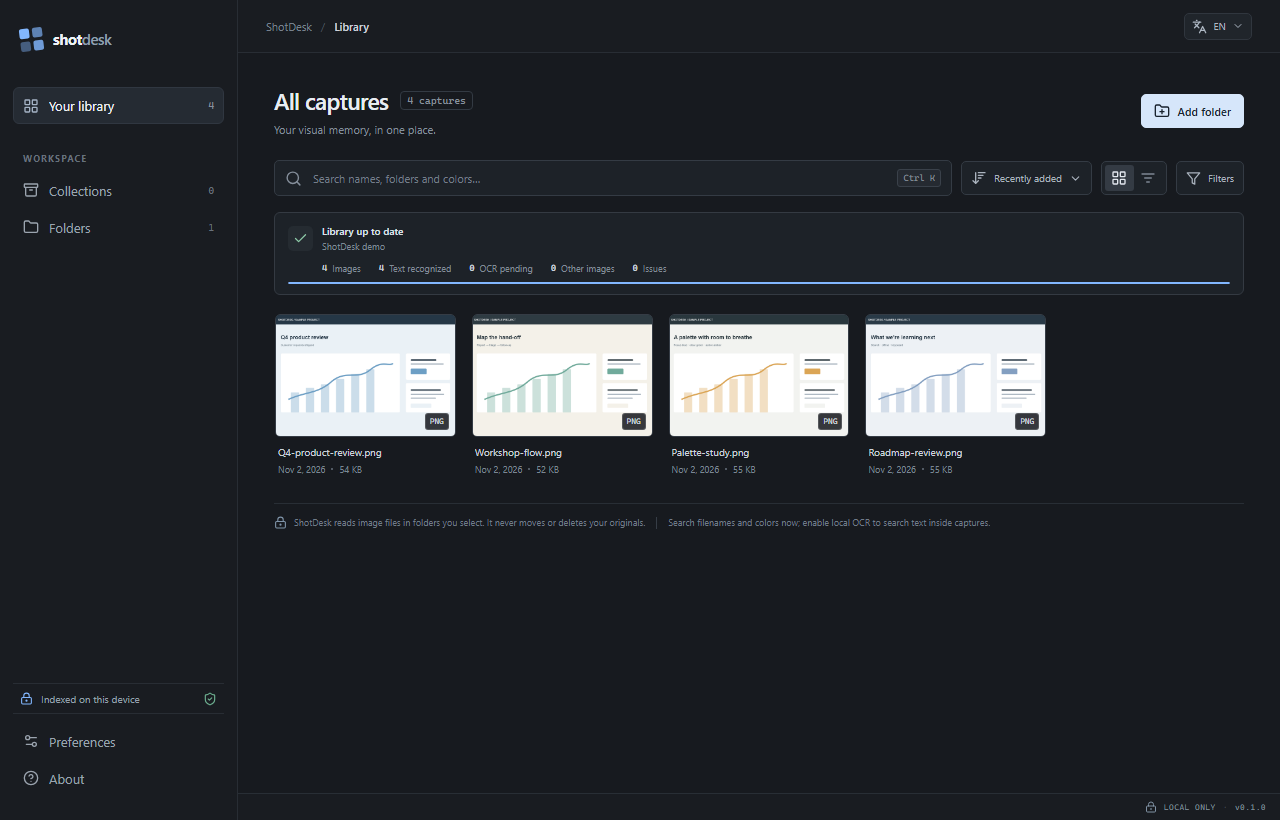
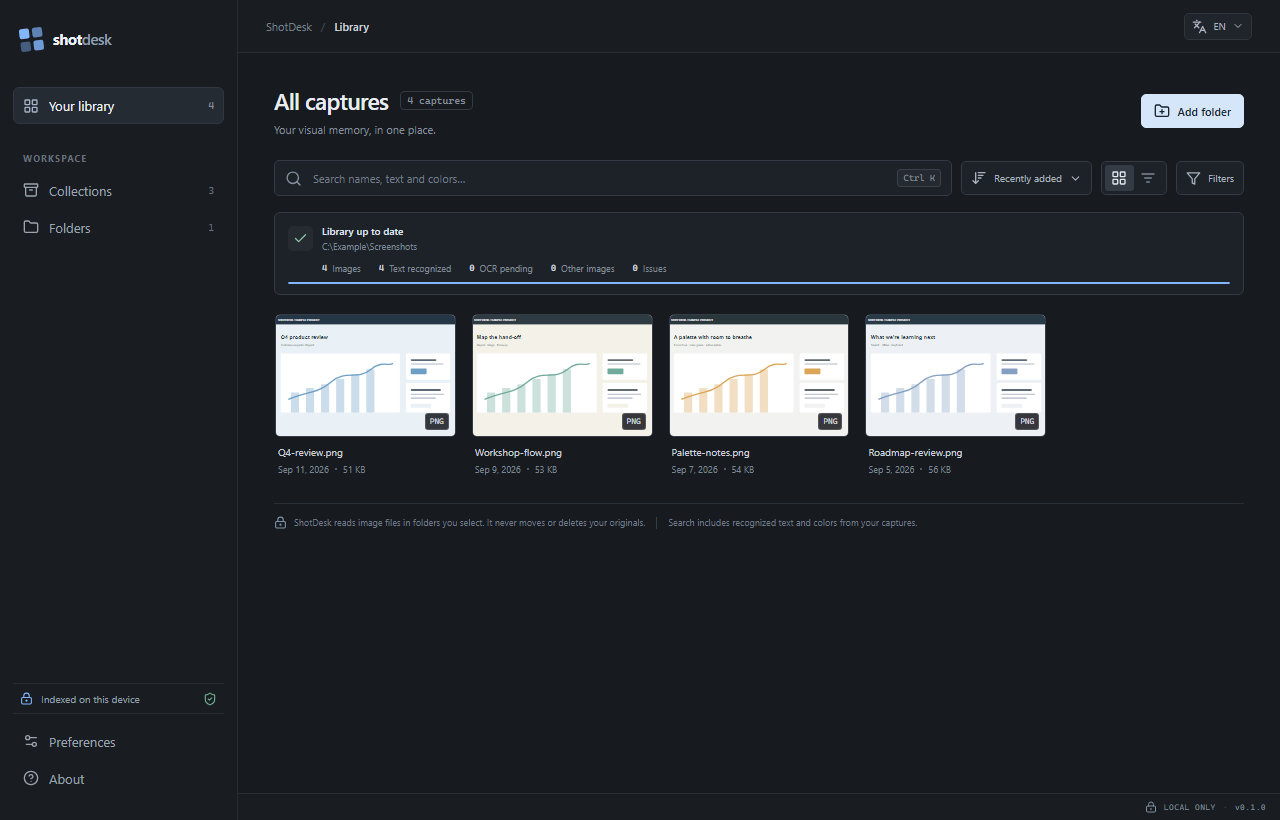
feat: add scroll-driven screen tour

diff --git a/translations.js b/translations.js
@@ -1,10 +1,11 @@
 export const translations = {
   "en-US": {
     homeTitle: "ShotDesk — Find it by what it shows", homeDescription: "ShotDesk is a Windows and Linux desktop app that helps you find screenshots by filename, recognized text, image details and colors. Local-first and private.", downloadDescription: "Download the ShotDesk preview for Windows or Linux. Get the current NSIS, MSI, Debian or RPM installer and read platform notes.", changelogDescription: "See what each ShotDesk version adds in plain language, with the option to open the original release details.",
-    skip: "Skip to content", workflowNav: "Workflow", privacyNav: "Local-first", detailsNav: "Image details", releaseNav: "Download", changelogNav: "Changelog", homeNav: "Overview", menuLabel: "Open navigation",
-    eyebrow: "LOCAL INDEX · TECHNICAL PREVIEW", headline: "Find the screenshot by what it shows.", intro: "ShotDesk reads your chosen screenshots on your device, then lets you search the words, image details, and colors you remember.", primaryCta: "Download preview", secondaryCta: "See the app", proofOne: "Chosen folders only", proofTwo: "SQLite FTS5", proofThree: "No image uploads",
+    skip: "Skip to content", workflowNav: "Workflow", screensNav: "App screens", privacyNav: "Local-first", detailsNav: "Image details", releaseNav: "Download", changelogNav: "Changelog", homeNav: "Overview", menuLabel: "Open navigation",
+    eyebrow: "LOCAL INDEX · TECHNICAL PREVIEW", headline: "Find the screenshot by what it shows.", intro: "ShotDesk reads your chosen screenshots on your device, then lets you search the words, image details, and colors you remember.", primaryCta: "Download preview", secondaryCta: "Explore the screens", proofOne: "Chosen folders only", proofTwo: "SQLite FTS5", proofThree: "No image uploads",
     pipelineTitle: "A screenshot, indexed locally", syntheticLabel: "Illustrative sample", localFile: "Original stays in its folder", stepOneTitle: "Image facts", stepOneBody: "1919 × 1031 · ratio · embedded EXIF", stepTwoTitle: "Color palette", stepTwoBody: "Blue · gray · white", stepThreeTitle: "Text recognition", stepThreeBody: "PP-OCRv6 · ONNX · on demand", resultLabel: "SEARCH RESULT", resultText: "“Q4 review” finds this capture", pipelineFoot: "After model setup, indexing works offline.",
     appShotEyebrow: "SHOTDESK · PREVIEW 0.1.0", appShotTitle: "Your screenshot library, at a glance.", appShotBody: "Browse a local index, search the details you remember, and open a capture without losing your place.", appShotAlt: "ShotDesk application interface showing the library and search field with four synthetic example screenshots.", appShotDisclosure: "Synthetic sample images",
+    screenStoryTitle: "Three moments in your screenshot library", screenStoryIntro: "Move from finding a screenshot to understanding it and keeping it organized.", screenStoryProgressLabel: "Screenshot tour progress", screenLibraryTitle: "Find the screenshot you remember.", screenLibraryBody: "Search by filename, folder, words inside the image, or its dominant colors.", screenDetailsTitle: "Understand each capture at a glance.", screenDetailsBody: "See recognized words, image dimensions, colors, and the collection it belongs to.", screenCollectionsTitle: "Keep project screenshots together.", screenCollectionsBody: "Create collections for projects, research, or anything you want to find again.", screenDisclosure: "Fictional screenshots and sample data", screenLibraryCaption: "ShotDesk 0.1.0 · sample library", screenDetailsCaption: "ShotDesk 0.1.0 · capture details", screenCollectionsCaption: "ShotDesk 0.1.0 · collections", screenLibraryAlt: "ShotDesk library showing four fictional screenshots, a search field, and local indexing status.", screenDetailsAlt: "ShotDesk capture details showing fictional image dimensions, colors, recognized text, and collection membership.", screenCollectionsAlt: "ShotDesk collections page showing three fictional project collections and their screenshot counts.",
     workflowEyebrow: "THE INDEXING PATH", workflowTitle: "A useful index, not another place to upload.", workflowIntro: "ShotDesk keeps a reference to each original file and builds a separate local index for the things you want to find.", workflowA: "Choose folders", workflowABody: "Only folders you select enter the library. Originals stay where they are.", workflowB: "Analyze images", workflowBBody: "Dimensions, available EXIF fields, and dominant colors are read locally. GPS is not stored.", workflowC: "Search what you recall", workflowCBody: "Find captures by filename, folder, OCR text, or color names in English and French.",
     detailsEyebrow: "WHAT THE LOCAL INDEX STORES", detailsTitle: "Useful facts, kept close to the image.", detailsNote: "EXIF fields are optional; many screenshots have none.", tableField: "Field", tableSource: "Source", tableUse: "Useful for", rowDimensions: "Dimensions & ratio", rowDimensionsUse: "Identifying screen size and orientation", rowExifUse: "Camera facts and resolution, when present", rowColors: "Dominant colors", rowColorsUse: "Searchable color names and palette chips", rowText: "Recognized text", rowTextUse: "Search text within the screenshot", rowSearch: "Search index", rowSearchUse: "Names, paths, text, and color aliases",
     privacyStamp: "LOCAL BY DESIGN", privacyEyebrow: "YOUR SCREENSHOTS STAY YOURS", privacyTitle: "No account. No upload. No moved originals.", privacyBody: "The SQLite library, thumbnails, collection membership, and OCR results are stored on this device. OCR models download only when you enable text search; after setup, recognition can run offline.", privacyOne: "Images are never sent to a cloud service.", privacyTwo: "GPS coordinates are not stored.", privacyThree: "Remove a folder from the index without deleting its files.",
@@ -15,10 +16,11 @@ export const translations = {
   },
   "fr-FR": {
     homeTitle: "ShotDesk — Retrouvez vos captures par leur contenu", homeDescription: "ShotDesk est une application de bureau Windows et Linux pour retrouver des captures par nom, texte reconnu, détails d’image et couleurs. Index local et privé.", downloadDescription: "Téléchargez la préversion ShotDesk pour Windows ou Linux : installateurs NSIS, MSI, Debian ou RPM, avec les notes de plateforme.", changelogDescription: "Découvrez simplement les nouveautés de ShotDesk et consultez les notes originales de chaque version si besoin.",
-    skip: "Aller au contenu", workflowNav: "Fonctionnement", privacyNav: "Traitement local", detailsNav: "Détails des images", releaseNav: "Télécharger", changelogNav: "Nouveautés", homeNav: "Accueil", menuLabel: "Ouvrir la navigation",
-    eyebrow: "INDEX LOCAL · APERÇU TECHNIQUE", headline: "Retrouvez une capture par ce qu’elle montre.", intro: "ShotDesk analyse les captures choisies sur votre appareil, puis permet de chercher les mots, détails et couleurs dont vous vous souvenez.", primaryCta: "Télécharger l’aperçu", secondaryCta: "Voir le logiciel", proofOne: "Dossiers choisis", proofTwo: "SQLite FTS5", proofThree: "Aucun envoi d’image",
+    skip: "Aller au contenu", workflowNav: "Fonctionnement", screensNav: "Écrans", privacyNav: "Traitement local", detailsNav: "Détails des images", releaseNav: "Télécharger", changelogNav: "Nouveautés", homeNav: "Accueil", menuLabel: "Ouvrir la navigation",
+    eyebrow: "INDEX LOCAL · APERÇU TECHNIQUE", headline: "Retrouvez une capture par ce qu’elle montre.", intro: "ShotDesk analyse les captures choisies sur votre appareil, puis permet de chercher les mots, détails et couleurs dont vous vous souvenez.", primaryCta: "Télécharger l’aperçu", secondaryCta: "Voir les écrans", proofOne: "Dossiers choisis", proofTwo: "SQLite FTS5", proofThree: "Aucun envoi d’image",
     pipelineTitle: "Une capture, indexée localement", syntheticLabel: "Exemple illustratif", localFile: "L’original reste dans son dossier", stepOneTitle: "Détails de l’image", stepOneBody: "1919 × 1031 · ratio · EXIF intégré", stepTwoTitle: "Palette de couleurs", stepTwoBody: "Bleu · gris · blanc", stepThreeTitle: "Reconnaissance de texte", stepThreeBody: "PP-OCRv6 · ONNX · à la demande", resultLabel: "RÉSULTAT DE RECHERCHE", resultText: "« revue Q4 » retrouve cette capture", pipelineFoot: "Après installation des modèles, l’indexation fonctionne hors ligne.",
     appShotEyebrow: "SHOTDESK · APERÇU 0.1.0", appShotTitle: "Votre bibliothèque de captures, en un coup d’œil.", appShotBody: "Parcourez votre index local, cherchez les détails dont vous vous souvenez et ouvrez une capture sans perdre votre place.", appShotAlt: "Interface de ShotDesk montrant la bibliothèque et son champ de recherche avec quatre captures d’exemple fictives.", appShotDisclosure: "Images de démonstration fictives",
+    screenStoryTitle: "Trois moments dans votre bibliothèque", screenStoryIntro: "De la recherche d’une capture à sa consultation et son organisation.", screenStoryProgressLabel: "Progression de la présentation des écrans", screenLibraryTitle: "Retrouvez la capture dont vous vous souvenez.", screenLibraryBody: "Recherchez par nom, dossier, mots visibles dans l’image ou couleurs dominantes.", screenDetailsTitle: "Comprenez chaque capture d’un coup d’œil.", screenDetailsBody: "Consultez le texte reconnu, les dimensions, les couleurs et la collection associée.", screenCollectionsTitle: "Réunissez les captures d’un projet.", screenCollectionsBody: "Créez des collections pour vos projets, vos recherches ou tout sujet à retrouver.", screenDisclosure: "Captures et données fictives de démonstration", screenLibraryCaption: "ShotDesk 0.1.0 · bibliothèque d’exemple", screenDetailsCaption: "ShotDesk 0.1.0 · détails d’une capture", screenCollectionsCaption: "ShotDesk 0.1.0 · collections", screenLibraryAlt: "Bibliothèque ShotDesk avec quatre captures fictives, un champ de recherche et la progression de l’indexation locale.", screenDetailsAlt: "Détails d’une capture ShotDesk avec dimensions, couleurs, texte reconnu et collection fictifs.", screenCollectionsAlt: "Page Collections de ShotDesk avec trois collections de projet fictives et leur nombre de captures.",
     workflowEyebrow: "ÉTAPES DE L’INDEXATION", workflowTitle: "Un index utile, pas un nouvel endroit où envoyer vos images.", workflowIntro: "ShotDesk conserve une référence vers chaque original et crée un index local distinct pour retrouver ce que vous cherchez.", workflowA: "Choisissez vos dossiers", workflowABody: "Seuls les dossiers sélectionnés entrent dans la bibliothèque. Les originaux restent à leur place.", workflowB: "Analysez les images", workflowBBody: "Dimensions, EXIF disponibles et couleurs dominantes sont lus localement. Les coordonnées GPS ne sont pas stockées.", workflowC: "Cherchez ce dont vous vous souvenez", workflowCBody: "Retrouvez une capture par son nom, son dossier, son texte OCR ou ses couleurs, en français et en anglais.",
     detailsEyebrow: "DONNÉES DE L’INDEX LOCAL", detailsTitle: "Des informations utiles, près de l’image.", detailsNote: "Les champs EXIF sont facultatifs ; beaucoup de captures n’en contiennent pas.", tableField: "Donnée", tableSource: "Source", tableUse: "Utilité", rowDimensions: "Dimensions et ratio", rowDimensionsUse: "Repérer la taille et l’orientation de l’image", rowExifUse: "Appareil et résolution, si les données existent", rowColors: "Couleurs dominantes", rowColorsUse: "Noms de couleurs recherchables et palette", rowText: "Texte reconnu", rowTextUse: "Chercher du texte visible dans la capture", rowSearch: "Index de recherche", rowSearchUse: "Noms, chemins, texte et alias de couleurs",
     privacyStamp: "LOCAL PAR CONCEPTION", privacyEyebrow: "VOS CAPTURES RESTENT LES VÔTRES", privacyTitle: "Pas de compte. Pas d’envoi. Aucun original déplacé.", privacyBody: "La bibliothèque SQLite, les miniatures, les collections et les résultats OCR sont stockés sur cet appareil. Les modèles OCR sont téléchargés uniquement si vous activez la recherche par texte ; après leur installation, la reconnaissance fonctionne hors ligne.", privacyOne: "Aucune image n’est envoyée dans le cloud.", privacyTwo: "Les coordonnées GPS ne sont pas stockées.", privacyThree: "Retirez un dossier de l’index sans supprimer ses fichiers.",

diff --git a/index.html b/index.html
@@ -33,6 +33,7 @@
       </a>
       <nav id="site-nav" aria-label="{{NAV_LABEL}}">
         <a href="#workflow" data-copy="workflowNav">Workflow</a>
+        <a href="#screens" data-copy="screensNav">App screens</a>
         <a href="#local-first" data-copy="privacyNav">Local-first</a>
         <a href="#details" data-copy="detailsNav">Image details</a>
         <a href="{{LOCAL_ROOT}}changelog/" data-copy="changelogNav">Changelog</a>
@@ -46,13 +47,30 @@
 
     <main id="main">
       <section class="hero" id="top" aria-labelledby="hero-title">
+        <div class="ocr-ambience" aria-hidden="true">
+          <svg viewBox="0 0 900 680" preserveAspectRatio="none">
+            <defs>
+              <pattern id="ocr-grid" width="56" height="56" patternUnits="userSpaceOnUse"><path d="M56 0H0V56" fill="none" stroke="#83b7ff" stroke-opacity=".13" stroke-width="1" /></pattern>
+              <linearGradient id="ocr-beam" x1="0" x2="0" y1="0" y2="1"><stop offset="0" stop-color="#80c8a4" stop-opacity="0" /><stop offset=".48" stop-color="#80c8a4" stop-opacity=".8" /><stop offset="1" stop-color="#80c8a4" stop-opacity="0" /></linearGradient>
+            </defs>
+            <rect width="900" height="680" fill="url(#ocr-grid)" />
+            <g class="ocr-glyphs" fill="#abcdf0" font-family="Cascadia Code, Consolas, monospace">
+              <text x="76" y="128">Q4  R3V13W  ·  08:42</text><text x="132" y="244">1 2 8 0  ×  8 0 0</text>
+              <text x="286" y="358">SEARCH  /  COLORS</text><text x="104" y="492">CAPTURE_04.PNG</text><text x="402" y="590">TEXT FOUND  ·  03 LINES</text>
+            </g>
+            <g class="ocr-boxes" fill="none" stroke="#83b7ff" stroke-width="1.4">
+              <rect x="60" y="88" width="360" height="62" rx="2" /><rect x="116" y="204" width="278" height="62" rx="2" />
+              <rect x="270" y="318" width="330" height="62" rx="2" /><rect x="88" y="452" width="300" height="62" rx="2" />
+            </g>
+            <rect class="ocr-scanline" x="0" y="0" width="900" height="34" fill="url(#ocr-beam)" />
+          </svg>
+        </div>
         <div class="hero-copy">
-          <p class="eyebrow"><span class="status-dot"></span><span data-copy="eyebrow">LOCAL INDEX · TECHNICAL PREVIEW</span></p>
           <h1 id="hero-title" data-copy="headline">Find the screenshot by what it shows.</h1>
           <p class="hero-description" data-copy="intro">ShotDesk reads your chosen screenshots on your device, then lets you search the words, image details, and colors you remember.</p>
           <div class="hero-actions">
             <a class="button button-primary" href="{{LOCAL_ROOT}}download/"><span data-copy="primaryCta">Download preview</span><span aria-hidden="true">↗</span></a>
-            <a class="text-link" href="#app-shot"><span data-copy="secondaryCta">See the app</span><span aria-hidden="true">↓</span></a>
+            <a class="text-link" href="#screens"><span data-copy="secondaryCta">See the app</span><span aria-hidden="true">↓</span></a>
           </div>
           <div class="proof-line" aria-label="Product properties">
             <span><b>01</b><span data-copy="proofOne">Chosen folders only</span></span>
@@ -88,9 +106,29 @@
         </figure>
       </section>
 
-      <section class="app-shot-section" id="app-shot" aria-labelledby="app-shot-title">
-        <div class="app-shot-copy"><p class="eyebrow" data-copy="appShotEyebrow">SHOTDESK · PREVIEW 0.1.0</p><h2 id="app-shot-title" data-copy="appShotTitle">Your screenshot library, at a glance.</h2><p data-copy="appShotBody">Browse a local index, search the details you remember, and open a capture without losing your place.</p><span class="synthetic-disclosure" data-copy="appShotDisclosure">Synthetic sample images</span></div>
-        <figure class="app-shot-frame"><img src="./assets/shotdesk-library.png" width="1280" height="820" alt="ShotDesk desktop interface showing a screenshot library with a search field, image thumbnails and image details. The demonstration images and names are synthetic." data-copy-alt="appShotAlt" /><figcaption data-copy="appShotAlt">ShotDesk desktop interface showing a screenshot library with a search field, image thumbnails and image details. The demonstration images and names are synthetic.</figcaption></figure>
+      <section class="screen-story" id="screens" data-scroll-story aria-labelledby="screen-story-title">
+        <div class="screen-story-pin">
+          <div class="screen-story-heading">
+            <div><h2 id="screen-story-title" data-copy="screenStoryTitle">See ShotDesk at work</h2><p data-copy="screenStoryIntro">Move through a few everyday moments in your screenshot library.</p></div>
+            <div class="screen-story-meter" role="group" data-aria-label-copy="screenStoryProgressLabel"><span id="screenStoryCurrent" aria-live="polite">01</span><span class="screen-story-total">/ 03</span><div class="screen-story-meter-track" aria-hidden="true"><i id="screenStoryMeterFill"></i></div></div>
+          </div>
+          <div class="screen-story-viewport">
+            <div class="screen-story-track">
+              <article class="screen-slide" aria-labelledby="screen-library-title">
+                <div class="screen-slide-copy"><h3 id="screen-library-title" data-copy="screenLibraryTitle">Find the screenshot you remember.</h3><p data-copy="screenLibraryBody">Search a folder by filename, visible text, and color, then browse the results without moving your original files.</p><span class="screen-disclosure" data-copy="screenDisclosure">Synthetic screenshots and sample data</span></div>
+                <figure class="screen-slide-figure"><img src="./assets/shotdesk-library.png" width="1280" height="820" alt="ShotDesk library with four fictional screenshots, search bar, and local indexing status." data-copy-alt="screenLibraryAlt" /><figcaption data-copy="screenLibraryCaption">ShotDesk 0.1.0 · demonstration library</figcaption></figure>
+              </article>
+              <article class="screen-slide" aria-labelledby="screen-details-title">
+                <div class="screen-slide-copy"><h3 id="screen-details-title" data-copy="screenDetailsTitle">Open a capture and see what’s inside.</h3><p data-copy="screenDetailsBody">Review its image details, colors, recognized words, and collection membership in one place.</p><span class="screen-disclosure" data-copy="screenDisclosure">Synthetic screenshots and sample data</span></div>
+                <figure class="screen-slide-figure"><img src="./assets/shotdesk-details.png" width="1280" height="820" alt="ShotDesk capture details panel with fictional image metadata, recognized text, and colors." data-copy-alt="screenDetailsAlt" /><figcaption data-copy="screenDetailsCaption">ShotDesk 0.1.0 · capture details</figcaption></figure>
+              </article>
+              <article class="screen-slide" aria-labelledby="screen-collections-title">
+                <div class="screen-slide-copy"><h3 id="screen-collections-title" data-copy="screenCollectionsTitle">Keep related screenshots together.</h3><p data-copy="screenCollectionsBody">Create collections for projects, research, or anything you want to find again.</p><span class="screen-disclosure" data-copy="screenDisclosure">Synthetic screenshots and sample data</span></div>
+                <figure class="screen-slide-figure"><img src="./assets/shotdesk-collections.png" width="1280" height="820" alt="ShotDesk collections screen showing three fictional project collections and their screenshot counts." data-copy-alt="screenCollectionsAlt" /><figcaption data-copy="screenCollectionsCaption">ShotDesk 0.1.0 · collections</figcaption></figure>
+              </article>
+            </div>
+          </div>
+        </div>
       </section>
 
       <section class="workflow-section" id="workflow" aria-labelledby="workflow-title">

diff --git a/site-pages.css b/site-pages.css
@@ -15,3 +15,16 @@
 @media(max-width:420px){.site-header nav{max-width:none;gap:0}.menu-toggle{width:30px;height:30px}.header-actions{gap:4px}}
 .release-overview{max-width:820px;margin-top:15px}.release-summary{max-width:760px;margin:0;color:#c6cfd8;font-size:14px;line-height:1.75}.release-highlights{display:grid;gap:10px;margin:18px 0 22px;padding-left:20px;color:#aeb9c4;font-size:12px;line-height:1.65}.release-highlights li::marker{color:var(--green)}.release-user-actions{margin-top:20px}.release-download{min-height:38px}.release-technical{margin-top:24px;padding-top:13px;border-top:1px solid #303740}.release-technical>summary{width:max-content;max-width:100%;color:#9eabb8;font-size:10px;cursor:pointer;text-decoration:underline;text-decoration-color:#566575;text-underline-offset:4px}.release-technical>summary:hover{color:var(--ink)}.release-technical-content{padding-top:8px}.release-technical-content>p{max-width:720px;color:#8996a3;font-size:10px;line-height:1.6}.release-technical-content .release-assets-title{margin:19px 0 0;color:#9ba8b5;font-size:10px;font-weight:550}.release-technical-content .release-notes{margin-top:16px}
 @media(max-width:760px){.release-summary{font-size:13px}.release-highlights{font-size:11px}.release-technical{margin-top:20px}}
+.hero{position:relative;isolation:isolate;overflow:hidden}.hero-copy,.pipeline{position:relative;z-index:1}.ocr-ambience{position:absolute;z-index:0;top:0;right:-2%;width:min(72%,920px);height:100%;overflow:hidden;pointer-events:none;opacity:.52;mask-image:linear-gradient(90deg,transparent 0%,#000 30%,#000 82%,transparent 100%)}.ocr-ambience svg{display:block;width:100%;height:100%}.ocr-glyphs{font-size:17px;letter-spacing:2px;opacity:.17}.ocr-boxes{stroke-dasharray:5 5;opacity:.2}.ocr-scanline{opacity:.25;transform:translateY(300px)}.hero.is-ocr-visible .ocr-scanline{animation:ocr-scan 7.5s cubic-bezier(.45,0,.45,1) infinite}@keyframes ocr-scan{0%{transform:translateY(20px);opacity:0}12%{opacity:.46}84%{opacity:.34}100%{transform:translateY(660px);opacity:0}}
+.screen-story{--screen-count:3;max-width:1400px;margin:0 auto;padding:70px 44px 72px;border-top:1px solid #2b3139}.screen-story-pin{max-width:1312px;margin:0 auto}.screen-story-heading{display:flex;align-items:end;justify-content:space-between;gap:36px;margin-bottom:25px}.screen-story-heading h2{max-width:700px;margin:0;color:#edf0f4;font-size:clamp(28px,3.2vw,42px);font-weight:600;line-height:1.12;letter-spacing:-.04em}.screen-story-heading p{max-width:610px;margin:12px 0 0;color:#a2adba;font-size:12px;line-height:1.7}.screen-story-meter{display:grid;grid-template-columns:auto auto;align-items:baseline;gap:6px 9px;flex:none;color:#a8c5e5;font:500 10px var(--mono)}.screen-story-meter #screenStoryCurrent{font-size:18px;color:#dbe9f8}.screen-story-total{color:#8794a1}.screen-story-meter-track{grid-column:1/-1;width:132px;height:2px;overflow:hidden;background:#37424e}.screen-story-meter-track i{display:block;width:100%;height:100%;transform:scaleX(.333);transform-origin:left;background:var(--green);transition:transform .22s ease}.screen-story-viewport{min-width:0}.screen-story-track{display:grid;gap:20px}.screen-slide{display:grid;grid-template-columns:minmax(235px,.68fr) minmax(0,1.32fr);align-items:center;gap:clamp(28px,4vw,58px);padding:14px 0 34px;border-bottom:1px solid #303740}.screen-slide-copy{max-width:400px}.screen-slide-copy h3{margin:0;color:#e7ebf0;font-size:clamp(20px,2.3vw,30px);font-weight:600;line-height:1.18;letter-spacing:-.03em}.screen-slide-copy p{margin:13px 0 16px;color:#a2adba;font-size:12px;line-height:1.75}.screen-disclosure{color:#8d9aa7;font:500 8px var(--mono);letter-spacing:.04em;text-transform:uppercase}.screen-slide-figure{min-width:0;margin:0;padding:8px;background:#20242a;border:1px solid #3a424b;border-radius:5px}.screen-slide-figure img{display:block;width:100%;height:auto;max-height:520px;object-fit:contain;object-position:center top;border-radius:3px}.screen-slide-figure figcaption{padding:8px 4px 1px;color:#8794a1;font-size:9px;line-height:1.5}
+@media(min-width:901px) and (prefers-reduced-motion:no-preference){html.has-scroll-story .screen-story{height:300vh;height:300svh;padding:0;border-top:0}html.has-scroll-story .screen-story-pin{position:sticky;top:0;display:flex;height:100vh;height:100svh;max-width:none;flex-direction:column;justify-content:space-between;overflow:hidden;padding:92px max(44px,calc((100vw - 1312px)/2)) 24px}html.has-scroll-story .screen-story-heading{flex:none;margin-bottom:16px}html.has-scroll-story .screen-story-viewport{flex:1;min-height:0;overflow:hidden}html.has-scroll-story .screen-story-track{display:flex;width:300%;height:100%;gap:0;transition:none}html.has-scroll-story .screen-slide{flex:0 0 33.333333%;width:33.333333%;height:100%;min-width:0;grid-template-columns:minmax(225px,.7fr) minmax(0,1.3fr);gap:clamp(28px,4vw,58px);padding:0 4vw 0 0;border:0}html.has-scroll-story .screen-slide-figure img{max-height:calc(100svh - 230px)}html.has-scroll-story .screen-story.is-active .screen-story-track{will-change:transform}}
+@media(max-width:900px){.screen-story{padding:56px 26px 62px}.screen-story-heading{align-items:start;flex-direction:column;gap:17px}.screen-story-meter{grid-template-columns:auto auto 1fr;align-items:center}.screen-story-meter-track{grid-column:auto;width:min(42vw,180px)}.screen-slide{grid-template-columns:1fr;gap:18px;padding:12px 0 28px}.screen-slide-copy{max-width:650px}.screen-slide-figure img{max-height:none}}
+@media(max-width:760px){.screen-story{padding:48px 20px 54px}.screen-story-heading h2{font-size:clamp(27px,8vw,34px)}.screen-story-heading p{font-size:11px}.screen-story-meter-track{width:120px}.screen-slide-copy h3{font-size:22px}.screen-slide-copy p{font-size:11px}}
+@media(prefers-reduced-motion:reduce){.ocr-scanline{animation:none!important;transform:translateY(320px);opacity:.22}.screen-story-meter-track i{transition:none}}
+.screen-story-meter{display:none}
+@media(min-width:901px) and (prefers-reduced-motion:no-preference){html.has-scroll-story .screen-story-meter{display:grid}}
+@media(max-width:760px){.ocr-ambience{width:82%;right:-18%;opacity:.2}}
+.ocr-ambience{opacity:.68}.ocr-glyphs{opacity:.26}.ocr-boxes{opacity:.3}
+@media(max-width:760px){.ocr-ambience{opacity:.2}}
+.header-actions .button-small{font-size:11px}.language-toggle{font-size:11px}.proof-line>span{font-size:10px}.proof-line b{font-size:10px}.screen-story-heading p,.screen-slide-copy p{font-size:14px}.screen-disclosure{font-size:10px}.screen-slide-figure figcaption{font-size:10px}
+@media(max-width:760px){.header-actions .button-small{font-size:11px}.screen-story-heading p,.screen-slide-copy p{font-size:13px}.screen-disclosure{font-size:10px}}

diff --git a/main.js b/main.js
@@ -85,3 +85,65 @@ if (header) {
     });
   }, { passive: true });
 }
+
+const reducedMotion = window.matchMedia("(prefers-reduced-motion: reduce)");
+const hero = document.querySelector(".hero");
+if (hero && !reducedMotion.matches && "IntersectionObserver" in window) {
+  const heroObserver = new IntersectionObserver(([entry]) => {
+    hero.classList.toggle("is-ocr-visible", entry.isIntersecting);
+  }, { threshold: 0.08 });
+  heroObserver.observe(hero);
+}
+
+const screenStory = document.querySelector("[data-scroll-story]");
+const screenTrack = screenStory?.querySelector(".screen-story-track");
+const screenViewport = screenStory?.querySelector(".screen-story-viewport");
+const storySlides = [...(screenStory?.querySelectorAll(".screen-slide") || [])];
+const storyCurrent = document.querySelector("#screenStoryCurrent");
+const storyMeterFill = document.querySelector("#screenStoryMeterFill");
+const desktopStory = window.matchMedia("(min-width: 901px)");
+let storyEnabled = false;
+let storyFrame = 0;
+let activeStoryIndex = -1;
+
+function updateScreenStory() {
+  storyFrame = 0;
+  if (!storyEnabled || !screenStory || !screenTrack || !screenViewport || !storySlides.length) return;
+  const travel = Math.max(1, screenStory.offsetHeight - window.innerHeight);
+  const distance = Math.min(travel, Math.max(0, -screenStory.getBoundingClientRect().top));
+  const position = (distance / travel) * (storySlides.length - 1);
+  const nextIndex = Math.min(storySlides.length - 1, Math.round(position));
+  screenTrack.style.transform = `translate3d(${-position * screenViewport.clientWidth}px, 0, 0)`;
+  screenStory.classList.toggle("is-active", distance > 0 && distance < travel);
+  if (storyMeterFill) storyMeterFill.style.transform = `scaleX(${(nextIndex + 1) / storySlides.length})`;
+  if (nextIndex !== activeStoryIndex) {
+    activeStoryIndex = nextIndex;
+    if (storyCurrent) storyCurrent.textContent = String(nextIndex + 1).padStart(2, "0");
+    storySlides.forEach((slide, index) => slide.classList.toggle("is-current", index === nextIndex));
+  }
+}
+
+function configureScreenStory() {
+  if (!screenStory || !screenTrack || !storySlides.length) return;
+  storyEnabled = desktopStory.matches && !reducedMotion.matches;
+  document.documentElement.classList.toggle("has-scroll-story", storyEnabled);
+  if (!storyEnabled) {
+    screenStory.classList.remove("is-active");
+    screenTrack.style.removeProperty("transform");
+    storySlides.forEach((slide) => slide.classList.remove("is-current"));
+    activeStoryIndex = -1;
+    return;
+  }
+  updateScreenStory();
+}
+
+if (screenStory && screenTrack && storySlides.length) {
+  window.addEventListener("scroll", () => {
+    if (!storyEnabled || storyFrame) return;
+    storyFrame = window.requestAnimationFrame(updateScreenStory);
+  }, { passive: true });
+  window.addEventListener("resize", configureScreenStory, { passive: true });
+  desktopStory.addEventListener("change", configureScreenStory);
+  reducedMotion.addEventListener("change", configureScreenStory);
+  configureScreenStory();
+}

diff --git a/README.md b/README.md
@@ -17,4 +17,4 @@ Open `http://localhost:8080`. The build reads published releases from the ShotDe
 
 Push to `main` to run the GitHub Pages workflow. It also runs hourly to refresh release information when the app repository publishes a new version. English and French pages are generated as crawlable static pages with canonical/hreflang metadata, a sitemap, structured data, and `llms.txt`.
 
-Do not publish user screenshots or captures. `assets/shotdesk-library.png` is a real capture of the application interface populated with synthetic demonstration images; the separate technical pipeline illustration is also synthetic and labeled as an example.
+Do not publish user screenshots or captures. The three `assets/shotdesk-*.png` files show real application screens populated with synthetic demonstration data; the separate technical pipeline illustration is also synthetic and labeled as an example.

diff --git a/assets/README.md b/assets/README.md
@@ -1,5 +1,5 @@
 # Website image provenance
 
-## `shotdesk-library.png`
+## ShotDesk product screens
 
-Captured from the ShotDesk 0.1.0 application interface for the product website. The browser preview was populated with synthetic demonstration images and filenames; no personal captures or local file paths are shown. The page displays this as a clearly labeled product-interface screenshot, not an illustrative interface mockup.
+`shotdesk-library.png`, `shotdesk-details.png`, and `shotdesk-collections.png` are captures of the real ShotDesk 0.1.0 application frontend in its desktop interface mode. A temporary local test bridge supplied fictional screenshots, metadata, recognized text, and collection names; no personal images or user library data were used. The site labels the content as synthetic demonstration data.
